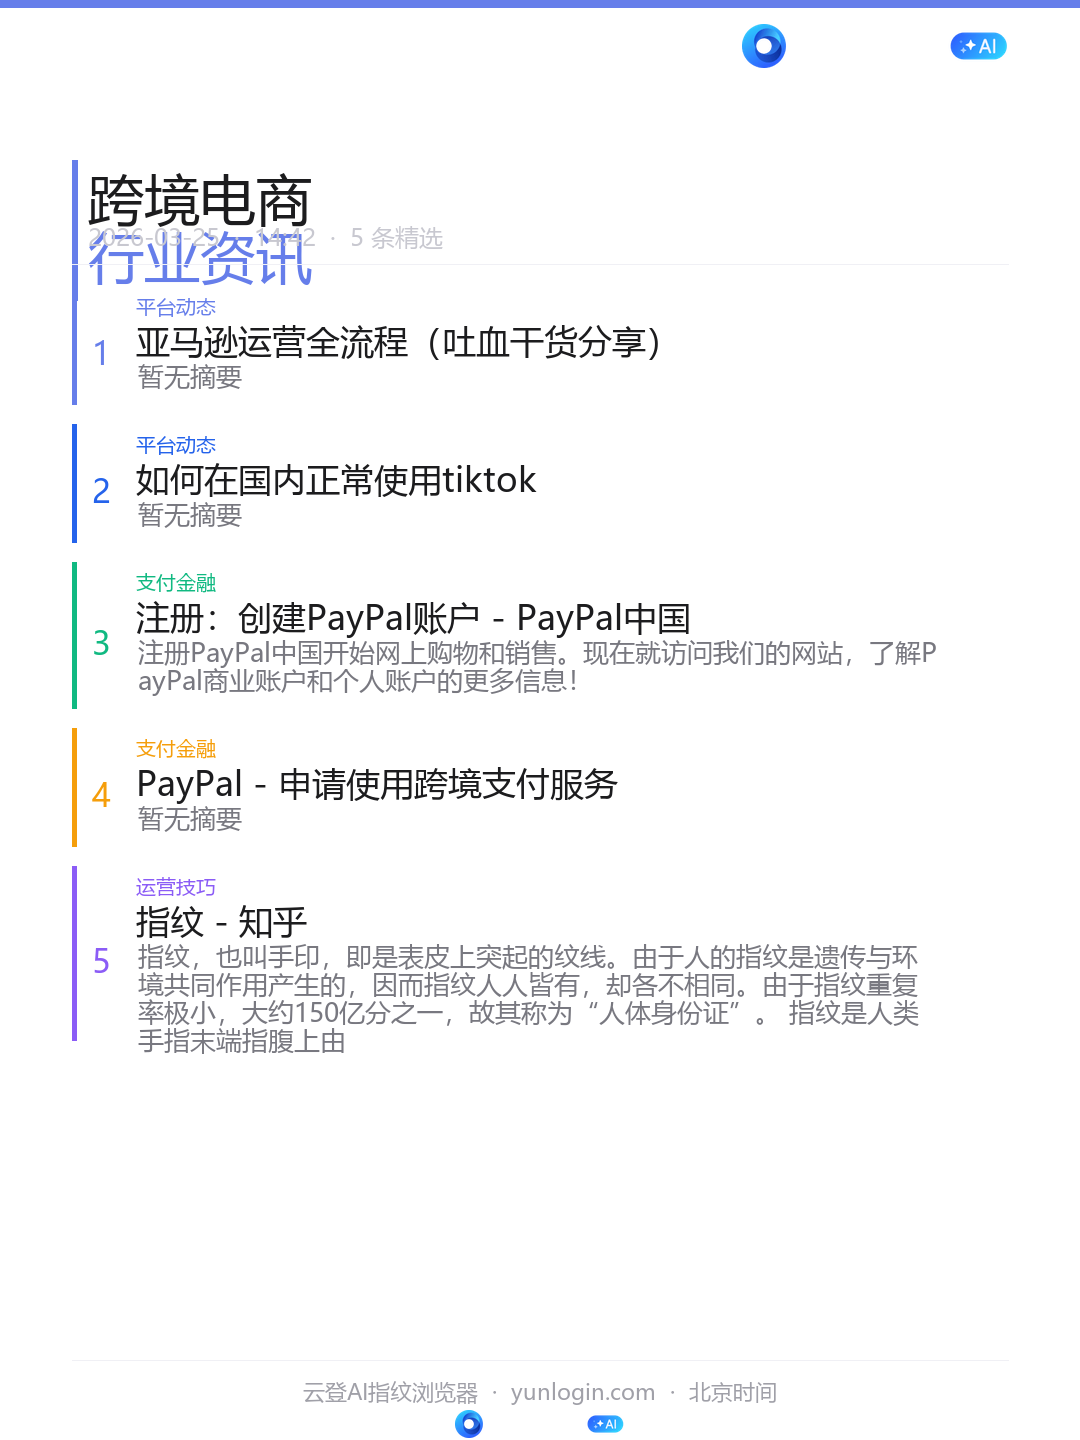
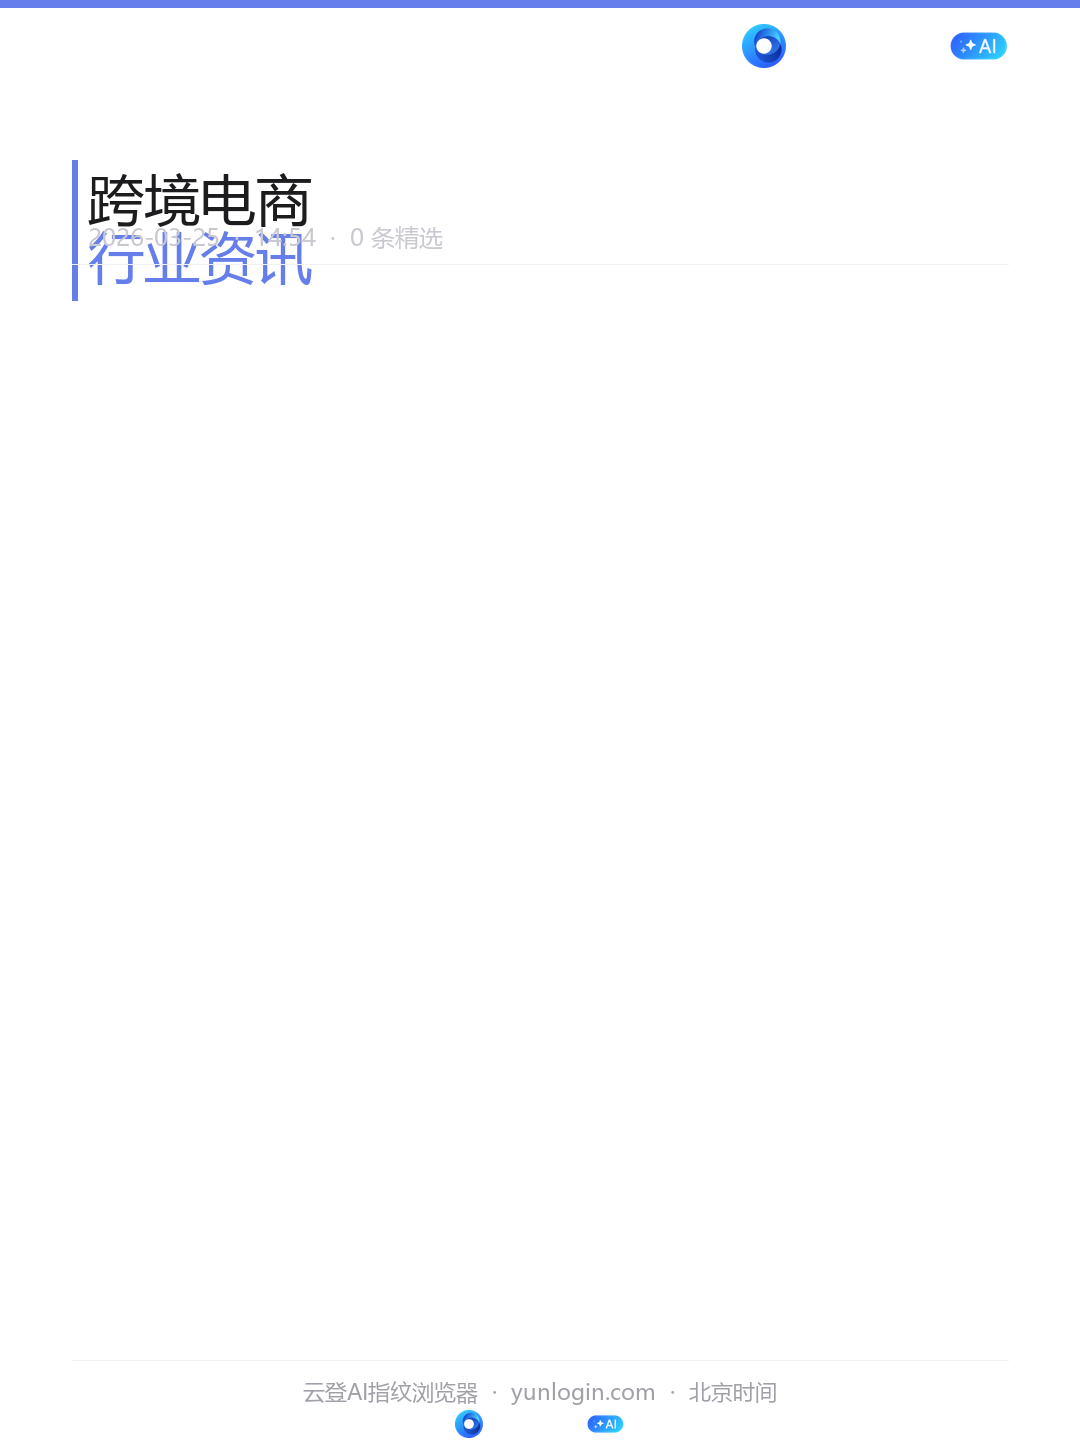
update: 行业简报 2026-03-25 14:54 - v8新闻定向

diff --git a/资讯/index.html b/资讯/index.html
@@ -82,7 +82,7 @@ a{color:#667eea;text-decoration:none}
 <div class="hdr">
   <h1>📰 行业资讯</h1>
   <div>
-    <span class="t">🕒 2026-03-25 14:42 · 北京时间</span>
+    <span class="t">🕒 2026-03-25 14:54 · 北京时间</span>
     <a href="../index.html">← 返回首页</a>
   </div>
 </div>
@@ -102,16 +102,16 @@ a{color:#667eea;text-decoration:none}
     <div class="bc">
       <div class="bh">
         <div class="bt">🖼 对外简报 · 朋友圈素材 <span class="badge badge-grn">14:00</span></div>
-        <div class="bm">更新于 2026-03-25 14:42 · 无来源链接</div>
+        <div class="bm">更新于 2026-03-25 14:54 · 无来源链接</div>
       </div>
-      <ul class="nl"><li class="ni"><div class="nn">1</div><div class="nc"><div class="nm"><span class="tag tagB">平台动态</span></div><div class="nt"><a href="https://www.zhihu.com/tardis/sogou/art/435669094" target="_blank">亚马逊运营全流程（吐血干货分享）</a></div><div class="nd">暂无摘要</div></div></li><li class="ni"><div class="nn">2</div><div class="nc"><div class="nm"><span class="tag tagB">平台动态</span></div><div class="nt"><a href="https://www.zhihu.com/tardis/bd/art/581566699" target="_blank">如何在国内正常使用tiktok</a></div><div class="nd">暂无摘要</div></div></li></ul>
+      <ul class="nl"></ul>
     </div>
     <div class="bc">
       <div class="bh">
-        <div class="bt">📊 对内全模块 <span class="badge">5条</span></div>
-        <div class="bm">更新于 2026-03-25 14:42 · 含来源链接</div>
+        <div class="bt">📊 对内全模块 <span class="badge">0条</span></div>
+        <div class="bm">更新于 2026-03-25 14:54 · 含来源链接</div>
       </div>
-      <ul class="nl"><li class="ni"><div class="nn">1</div><div class="nc"><div class="nm"><span class="tag tagB">平台动态</span></div><div class="nt"><a href="https://www.zhihu.com/tardis/sogou/art/435669094" target="_blank">亚马逊运营全流程（吐血干货分享）</a></div><div class="nd">暂无摘要</div><div class="ns">&#128214; <a href="https://www.zhihu.com/tardis/sogou/art/435669094" target="_blank">www.zhihu.com</a> <span class="ptime">近日</span> <a class="nlk" href="https://www.zhihu.com/tardis/sogou/art/435669094" target="_blank">&#8594;</a></div></div></li><li class="ni"><div class="nn">2</div><div class="nc"><div class="nm"><span class="tag tagB">平台动态</span></div><div class="nt"><a href="https://www.zhihu.com/tardis/bd/art/581566699" target="_blank">如何在国内正常使用tiktok</a></div><div class="nd">暂无摘要</div><div class="ns">&#128214; <a href="https://www.zhihu.com/tardis/bd/art/581566699" target="_blank">www.zhihu.com</a> <span class="ptime">近日</span> <a class="nlk" href="https://www.zhihu.com/tardis/bd/art/581566699" target="_blank">&#8594;</a></div></div></li><li class="ni"><div class="nn">3</div><div class="nc"><div class="nm"><span class="tag tagG">支付金融</span></div><div class="nt"><a href="https://www.paypal.com/c2/webapps/mpp/account-selection" target="_blank">注册：创建PayPal账户 - PayPal中国</a></div><div class="nd">注册PayPal中国开始网上购物和销售。现在就访问我们的网站，了解PayPal商业账户和个人账户的更多信息！</div><div class="ns">&#128214; <a href="https://www.paypal.com/c2/webapps/mpp/account-selection" target="_blank">www.paypal.com</a> <span class="ptime">近日</span> <a class="nlk" href="https://www.paypal.com/c2/webapps/mpp/account-selection" target="_blank">&#8594;</a></div></div></li><li class="ni"><div class="nn">4</div><div class="nc"><div class="nm"><span class="tag tagG">支付金融</span></div><div class="nt"><a href="https://www.paypal.cn/portal/account-selection" target="_blank">PayPal - 申请使用跨境支付服务</a></div><div class="nd">暂无摘要</div><div class="ns">&#128214; <a href="https://www.paypal.cn/portal/account-selection" target="_blank">www.paypal.cn</a> <span class="ptime">近日</span> <a class="nlk" href="https://www.paypal.cn/portal/account-selection" target="_blank">&#8594;</a></div></div></li><li class="ni"><div class="nn">5</div><div class="nc"><div class="nm"><span class="tag tagGr">运营技巧</span></div><div class="nt"><a href="https://www.zhihu.com/topic/19572024/intro" target="_blank">指纹 - 知乎</a></div><div class="nd">指纹，也叫手印，即是表皮上突起的纹线。由于人的指纹是遗传与环境共同作用产生的，因而指纹人人皆有，却各不相同。由于指纹重复率极小，大约150亿分之一，故其称为“人体身份证”。 指纹是人类手指末端指腹上由凹凸的皮肤所形成的纹路，指纹能使手在接触物件时增加摩擦力，从而更容易发力及抓紧物件，它是人类进化过程式中自然形成的。 伸出手，仔细观察，可以发现小小的指纹也分三种类型：有同心圆或螺旋纹线，看上去像水中</div><div class="ns">&#128214; <a href="https://www.zhihu.com/topic/19572024/intro" target="_blank">www.zhihu.com</a> <span class="ptime">近日</span> <a class="nlk" href="https://www.zhihu.com/topic/19572024/intro" target="_blank">&#8594;</a></div></div></li></ul>
+      <ul class="nl"></ul>
     </div>
   </div>
 
@@ -120,7 +120,7 @@ a{color:#667eea;text-decoration:none}
       <div class="bh">
         <div class="bt">🕐 今日历史版本 <span class="badge">2026-03-25</span></div>
       </div>
-      <div id="tlWrap"><table class="tl"><thead><tr><th>时间</th><th>条数</th><th>首条</th><th>标签</th><th></th></tr></thead><tbody><tr><td class="tc">14:00</td><td class="ti">7条</td><td class="ti">亚马逊运营全流程（吐血干货分享）...</td><td><span class="mt">平台动态</span> <span class="mt">平台动态</span> <span class="mt">平台动态</span> <span class="mt">平台动态</span></td><td><button class="bv bcur" onclick="showSnap('14')">当前</button></td></tr></tbody></table></div>
+      <div id="tlWrap"><table class="tl"><thead><tr><th>时间</th><th>条数</th><th>首条</th><th>标签</th><th></th></tr></thead><tbody><tr><td class="tc">14:00</td><td class="ti">0条</td><td class="ti">无内容</td><td></td><td><button class="bv bcur" onclick="showSnap('14')">当前</button></td></tr></tbody></table></div>
     </div>
   </div>
 </div>
@@ -152,7 +152,7 @@ a{color:#667eea;text-decoration:none}
   </div>
 </div>
 
-<script type="application/json" id="sd">{"2026-03-25": {"14": {"articles": [{"title": "亚马逊运营全流程（吐血干货分享）", "desc": "暂无摘要", "url": "https://www.zhihu.com/tardis/sogou/art/435669094", "source": "www.zhihu.com", "date": "2026-03-25", "art_date": null, "tag": "平台动态", "pub_time": "近日", "for_outer": true}, {"title": "如何在国内正常使用tiktok", "desc": "暂无摘要", "url": "https://www.zhihu.com/tardis/bd/art/581566699", "source": "www.zhihu.com", "date": "2026-03-25", "art_date": null, "tag": "平台动态", "pub_time": "近日", "for_outer": true}, {"title": "亚马逊运营全流程（吐血干货分享）", "desc": "暂无摘要", "url": "https://www.zhihu.com/tardis/sogou/art/435669094", "source": "www.zhihu.com", "date": "2026-03-25", "art_date": null, "tag": "平台动态", "pub_time": "近日", "for_outer": true}, {"title": "如何在国内正常使用tiktok", "desc": "暂无摘要", "url": "https://www.zhihu.com/tardis/bd/art/581566699", "source": "www.zhihu.com", "date": "2026-03-25", "art_date": null, "tag": "平台动态", "pub_time": "近日", "for_outer": true}, {"title": "注册：创建PayPal账户 - PayPal中国", "desc": "注册PayPal中国开始网上购物和销售。现在就访问我们的网站，了解PayPal商业账户和个人账户的更多信息！", "url": "https://www.paypal.com/c2/webapps/mpp/account-selection", "source": "www.paypal.com", "date": "2026-03-25", "art_date": null, "tag": "支付金融", "pub_time": "近日", "for_outer": false}, {"title": "PayPal - 申请使用跨境支付服务", "desc": "暂无摘要", "url": "https://www.paypal.cn/portal/account-selection", "source": "www.paypal.cn", "date": "2026-03-25", "art_date": null, "tag": "支付金融", "pub_time": "近日", "for_outer": false}, {"title": "指纹 - 知乎", "desc": "指纹，也叫手印，即是表皮上突起的纹线。由于人的指纹是遗传与环境共同作用产生的，因而指纹人人皆有，却各不相同。由于指纹重复率极小，大约150亿分之一，故其称为“人体身份证”。 指纹是人类手指末端指腹上由凹凸的皮肤所形成的纹路，指纹能使手在接触物件时增加摩擦力，从而更容易发力及抓紧物件，它是人类进化过程式中自然形成的。 伸出手，仔细观察，可以发现小小的指纹也分三种类型：有同心圆或螺旋纹线，看上去像水中", "url": "https://www.zhihu.com/topic/19572024/intro", "source": "www.zhihu.com", "date": "2026-03-25", "art_date": null, "tag": "运营技巧", "pub_time": "近日", "for_outer": false}], "updated": "2026-03-25 14:42"}}}</script>
+<script type="application/json" id="sd">{"2026-03-25": {"14": {"articles": [], "updated": "2026-03-25 14:54"}}}</script>
 <script>
 var SD=JSON.parse(document.getElementById("sd").textContent||"{}");
 

diff --git a/资讯/历史.html b/资讯/历史.html
@@ -85,7 +85,7 @@ a{color:#667eea;text-decoration:none}
       <div class="bt">📁 全部历史记录</div>
       <div class="bm">按日期分组，共保留7天</div>
     </div>
-    <div id="dgWrap"><div class="dg"><div class="dl">2026-03-25 周二</div><table class="tl"><thead><tr><th>时间</th><th>条数</th><th>首条</th><th>标签</th><th></th></tr></thead><tbody><tr><td class="tc">14:00</td><td class="ti">7条</td><td class="ti">亚马逊运营全流程（吐血干货分享）...</td><td><span class="mt">平台动态</span> <span class="mt">平台动态</span> <span class="mt">平台动态</span> <span class="mt">平台动态</span></td><td><button class="bv" onclick="loadSnap('2026-03-25','14')">查看</button></td></tr></tbody></table></div></div>
+    <div id="dgWrap"><div class="dg"><div class="dl">2026-03-25 周二</div><table class="tl"><thead><tr><th>时间</th><th>条数</th><th>首条</th><th>标签</th><th></th></tr></thead><tbody><tr><td class="tc">14:00</td><td class="ti">0条</td><td class="ti">无内容</td><td></td><td><button class="bv" onclick="loadSnap('2026-03-25','14')">查看</button></td></tr></tbody></table></div></div>
   </div>
 </div>
 
@@ -116,7 +116,7 @@ a{color:#667eea;text-decoration:none}
   </div>
 </div>
 
-<script type="application/json" id="sd">{"2026-03-25": {"14": {"articles": [{"title": "亚马逊运营全流程（吐血干货分享）", "desc": "暂无摘要", "url": "https://www.zhihu.com/tardis/sogou/art/435669094", "source": "www.zhihu.com", "date": "2026-03-25", "art_date": null, "tag": "平台动态", "pub_time": "近日", "for_outer": true}, {"title": "如何在国内正常使用tiktok", "desc": "暂无摘要", "url": "https://www.zhihu.com/tardis/bd/art/581566699", "source": "www.zhihu.com", "date": "2026-03-25", "art_date": null, "tag": "平台动态", "pub_time": "近日", "for_outer": true}, {"title": "亚马逊运营全流程（吐血干货分享）", "desc": "暂无摘要", "url": "https://www.zhihu.com/tardis/sogou/art/435669094", "source": "www.zhihu.com", "date": "2026-03-25", "art_date": null, "tag": "平台动态", "pub_time": "近日", "for_outer": true}, {"title": "如何在国内正常使用tiktok", "desc": "暂无摘要", "url": "https://www.zhihu.com/tardis/bd/art/581566699", "source": "www.zhihu.com", "date": "2026-03-25", "art_date": null, "tag": "平台动态", "pub_time": "近日", "for_outer": true}, {"title": "注册：创建PayPal账户 - PayPal中国", "desc": "注册PayPal中国开始网上购物和销售。现在就访问我们的网站，了解PayPal商业账户和个人账户的更多信息！", "url": "https://www.paypal.com/c2/webapps/mpp/account-selection", "source": "www.paypal.com", "date": "2026-03-25", "art_date": null, "tag": "支付金融", "pub_time": "近日", "for_outer": false}, {"title": "PayPal - 申请使用跨境支付服务", "desc": "暂无摘要", "url": "https://www.paypal.cn/portal/account-selection", "source": "www.paypal.cn", "date": "2026-03-25", "art_date": null, "tag": "支付金融", "pub_time": "近日", "for_outer": false}, {"title": "指纹 - 知乎", "desc": "指纹，也叫手印，即是表皮上突起的纹线。由于人的指纹是遗传与环境共同作用产生的，因而指纹人人皆有，却各不相同。由于指纹重复率极小，大约150亿分之一，故其称为“人体身份证”。 指纹是人类手指末端指腹上由凹凸的皮肤所形成的纹路，指纹能使手在接触物件时增加摩擦力，从而更容易发力及抓紧物件，它是人类进化过程式中自然形成的。 伸出手，仔细观察，可以发现小小的指纹也分三种类型：有同心圆或螺旋纹线，看上去像水中", "url": "https://www.zhihu.com/topic/19572024/intro", "source": "www.zhihu.com", "date": "2026-03-25", "art_date": null, "tag": "运营技巧", "pub_time": "近日", "for_outer": false}], "updated": "2026-03-25 14:42"}}}</script>
+<script type="application/json" id="sd">{"2026-03-25": {"14": {"articles": [], "updated": "2026-03-25 14:54"}}}</script>
 <script>
 var SD=JSON.parse(document.getElementById("sd").textContent||"{}");
 
